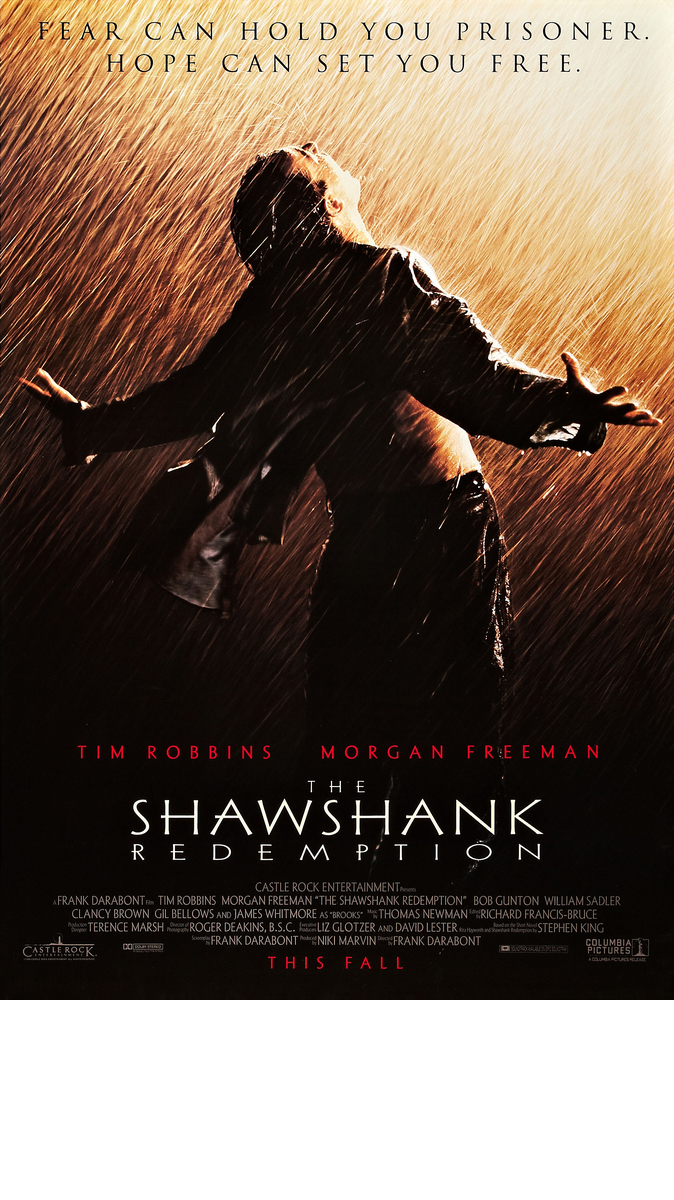
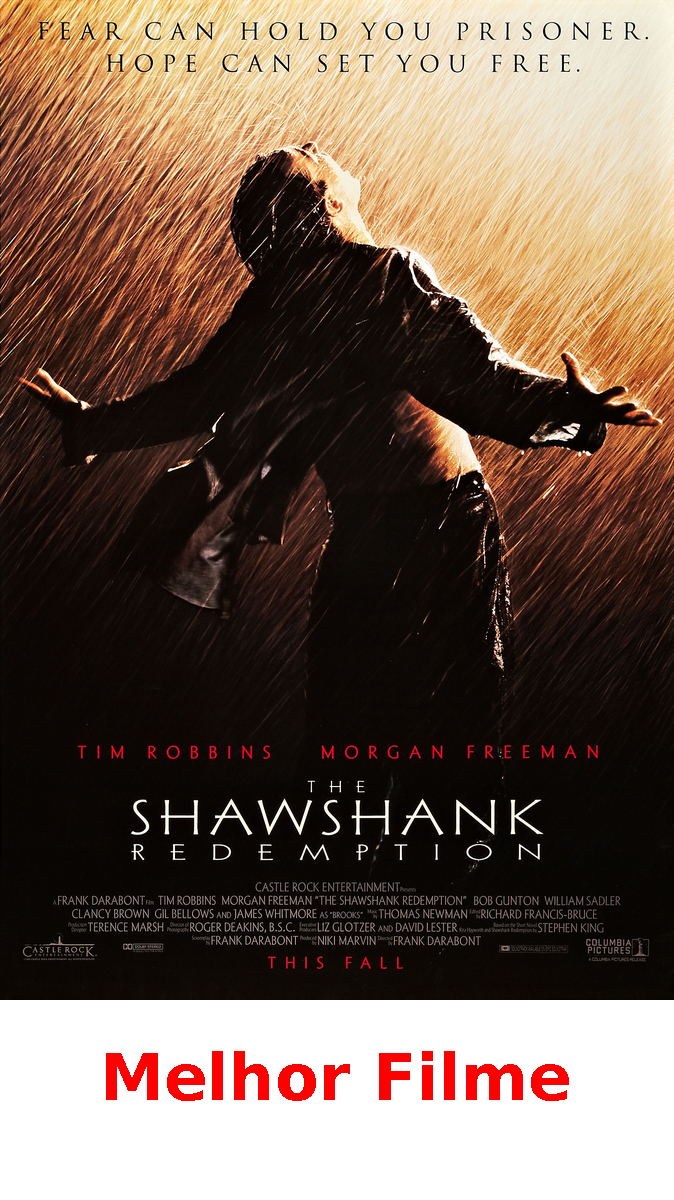
Finalizando classe geradore e integrado ao App

Changed region(s): [[0.1558, 0.8633, 0.5297, 0.925], [0.5608, 0.8633, 0.8412, 0.925]]

diff --git a/alura-stickers/src/GeradoraDeStrickers.java b/alura-stickers/src/GeradoraDeStrickers.java
@@ -1,18 +1,25 @@
+import java.awt.Color;
+import java.awt.Font;
 import java.awt.Graphics2D;
 import java.awt.image.BufferedImage;
 import java.io.File;
 import java.io.IOException;
-import java.awt.Font;
+import java.io.InputStream;
+import java.nio.file.Path;
+import java.nio.file.Paths;
 
 import javax.imageio.ImageIO;
 
 public class GeradoraDeStrickers {
     
-    void create() throws IOException {
+    void create(InputStream inputStream, String nomeArquivo) throws IOException {
 
 
         // 1. Ler imagem
-        BufferedImage ImagemOriginal = ImageIO.read(new File("alura-stickers/entrada/TopMovies_1.jpg"));
+        // InputStream inputStream = new FileInputStream(new File("alura-stickers/entrada/TopMovies_1.jpg"));
+        // InputStream inputStream = new URL("https://imersao-java-apis.s3.amazonaws.com/TopMovies_1.jpg").openStream();
+
+        BufferedImage ImagemOriginal = ImageIO.read(inputStream);
 
         // 2. Criar nova imagem em memória com transparência e com tamanho novo 
         int largura = ImagemOriginal.getWidth();
@@ -26,16 +33,14 @@ public class GeradoraDeStrickers {
 
         // Configurar a fonte
         Font fonte = new Font(Font.SANS_SERIF, Font.BOLD, 64);
+        graphics.setColor(Color.RED);
         graphics.setFont(fonte);
 
         // 4. Escrever uma frase na nova imagem
-        graphics.drawString("O melhor", 0, novaAltura - 100);
+        graphics.drawString("Melhor Filme", 100, novaAltura - 100);
 
         // 5. Escrever a nova imagem em um arquivo
-        ImageIO.write(novaImagem, "png", new File("alura-stickers/saida/figurinha.png"));
+        ImageIO.write(novaImagem, "png", new File(nomeArquivo));
     }
-            public static void main(String[] args) throws IOException {
-                var geradora = new GeradoraDeStrickers();
-                geradora.create();
-            }
+
 }

diff --git a/alura-stickers/src/App.java b/alura-stickers/src/App.java
@@ -1,4 +1,6 @@
+import java.io.InputStream;
 import java.net.URI;
+import java.net.URL;
 import java.net.http.HttpClient;
 import java.net.http.HttpRequest;
 import java.net.http.HttpResponse;
@@ -25,11 +27,21 @@ public class App {
 
         // 3. Exibir e manipular os dados
         for (Map<String,String> filme : listaDeFilmes) {
+
+            String urlImage = filme.get("image");
             String titulo = filme.get("title");
+            InputStream inputStream = new URL(urlImage).openStream();
+
+            String nomeArquivo = titulo + ".png";
+
+            // TODO: Direcionar imagens para um diretório da saída
+            GeradoraDeStrickers geradora = new GeradoraDeStrickers();
+            geradora.create(inputStream, nomeArquivo);
+
+
             System.out.printf("TITULO:.\t\u001b[37m \u001b[41m\u001b[3m\u001b[1m %s \u001b[m \n", titulo);
 
-            String url_image = filme.get("image");
-            System.out.printf("\u001b[1mLINK IMAGEM:.\t\u001b[34m \u001b[3m\u001b[1m%s \u001b[m \n", url_image);
+            System.out.printf("\u001b[1mLINK IMAGEM:.\t\u001b[34m \u001b[3m\u001b[1m%s \u001b[m \n", urlImage);
 
             String imdbRating1 = filme.get("imDbRating");
             double imdbRating = Double.parseDouble(filme.get("imDbRating"));
